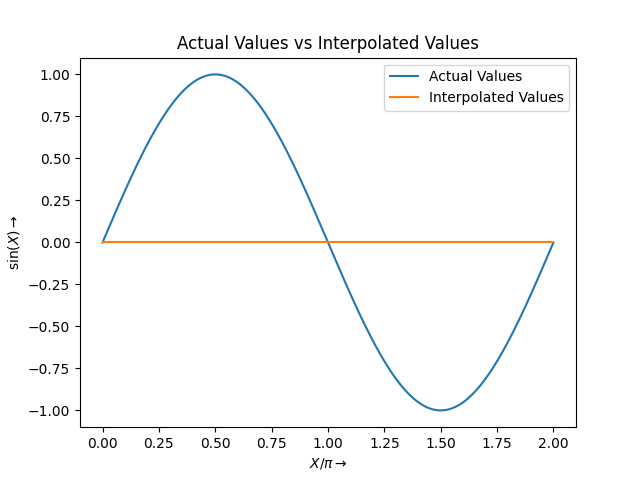
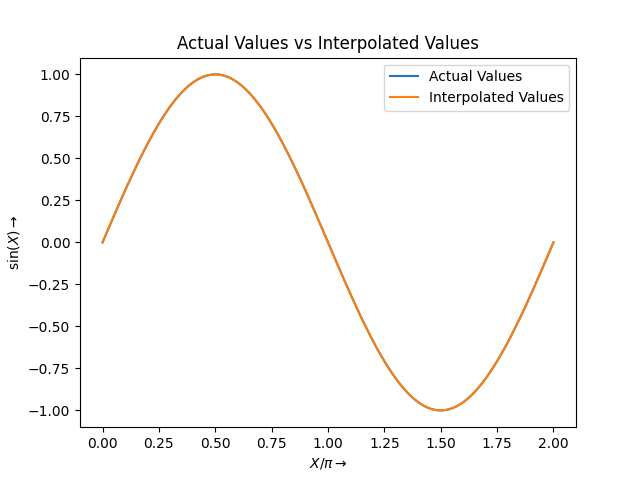
Added Code

diff --git a/Assignment 1/LagrangeInterpolation.py b/Assignment 1/LagrangeInterpolation.py
@@ -8,7 +8,7 @@ def CompileCCode(filename, N):
     os.system("gcc -o " + filename + ".out " + filename + ".c")
     os.system("./" + filename + ".out " + str(N))
 
-    TEXT = np.loadtxt(filename + ".txt")
+    TEXT = np.loadtxt("output.txt")
     INP = TEXT[:,0] 
     INTOUT = TEXT[:,1]
 
@@ -37,7 +37,7 @@ def Plot():
     savefig("LagrangeInterpolation.png")
     show()
 
-    X_ = np.array([0, 0.25, 0.5, 0.75, 1, 1.25, 1.5, 1.75, 2])
+    X_ = np.arange(0,2.25,0.25)
     DELTA = np.sin(np.pi*INP) - INTOUT
     print("Absolute Error in Interpolation: " + str(np.sum(np.abs(DELTA))))
 
@@ -51,7 +51,8 @@ def Plot():
     show()
 
 def GaussNoise():
-    SIGMA = [0.01, 0.04, 0.07, 0.10, 0.13, 0.16, 0.19, 0.22, 0.25]
+    #SIGMA = [0.01, 0.04, 0.07, 0.10, 0.13, 0.16, 0.19, 0.22, 0.25]
+    SIGMA = np.arange(0.01,0.28,0.03)
 
     X = np.arange(0,2,1e-5)
     Y_ACTUAL = np.sin(np.pi*X)
@@ -69,7 +70,7 @@ def GaussNoise():
     savefig("LagrangeInterpolationGaussNoise.png")
     show()
 
-    X_ = np.array([0, 0.25, 0.5, 0.75, 1, 1.25, 1.5, 1.75, 2])
+    X_ = np.arange(0,2.25,0.25)
 
     ABSNOISE = []
     for i in range(10):
@@ -95,8 +96,10 @@ def GaussNoise():
     show()
 
 def GenGaussNoise():
-    SIGMA = [0.01, 0.04, 0.07, 0.10, 0.13, 0.16, 0.19, 0.22, 0.25]
-    X_ = np.array([0, 0.25, 0.5, 0.75, 1, 1.25, 1.5, 1.75, 2])
+    SIGMA = np.arange(0.01,0.28,0.03)
+
+    #X_ = np.array([0, 0.25, 0.5, 0.75, 1, 1.25, 1.5, 1.75, 2])
+    X_ = np.arange(0,2.25,0.25)
     Y_ = np.sin(np.pi*X_)
 
     OUT = []
